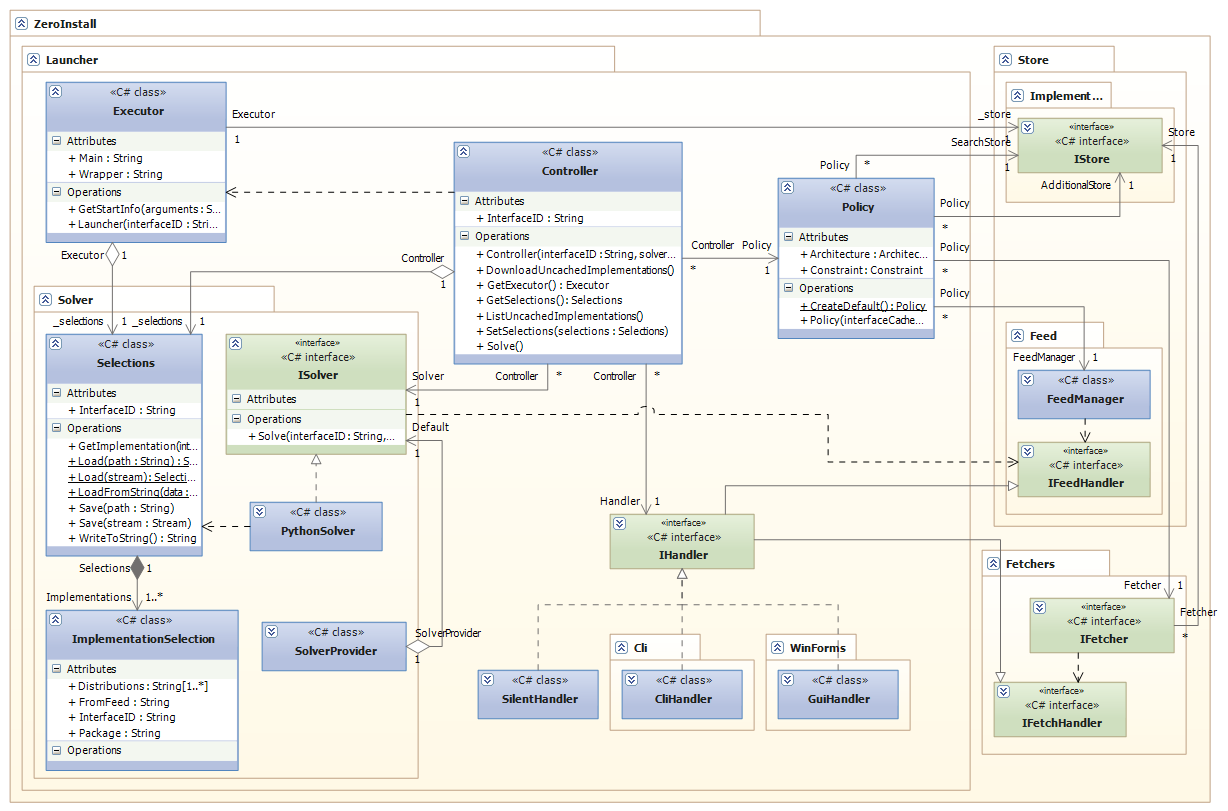
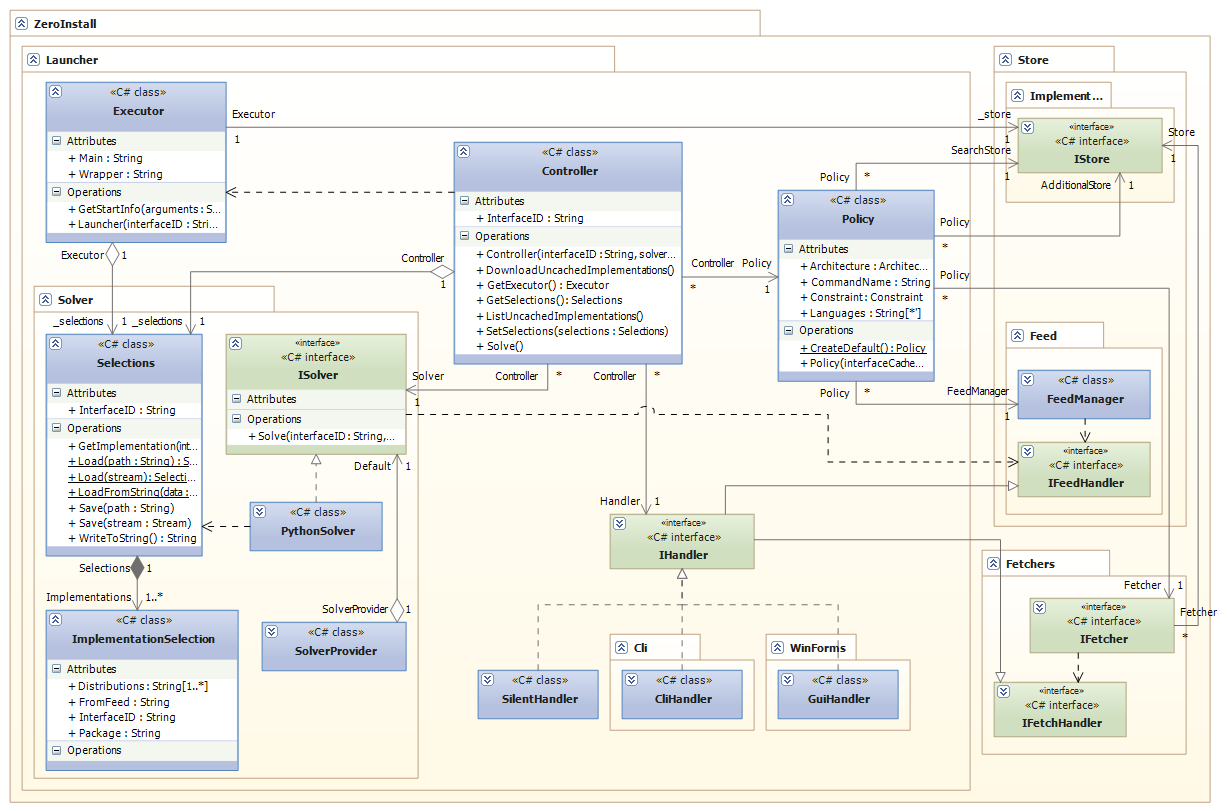
Small cleanups

diff --git a/vs/Launcher/Policy.cs b/vs/Launcher/Policy.cs
@@ -47,8 +47,9 @@ namespace ZeroInstall.Launcher
         public IFetcher Fetcher { get; private set; }
 
         /// <summary>
-        /// The name of the command in the implementation to execute. Will default to <see cref="Command.NameRun"/> if unset.
+        /// The name of the command in the implementation to execute.
         /// </summary>
+        /// <remarks>Will default to <see cref="Command.NameRun"/> if <see langword="null"/>. Will remove all commands if set to <see cref="string.Empty"/>.</remarks>
         public string CommandName { get; set; }
 
         /// <summary>
